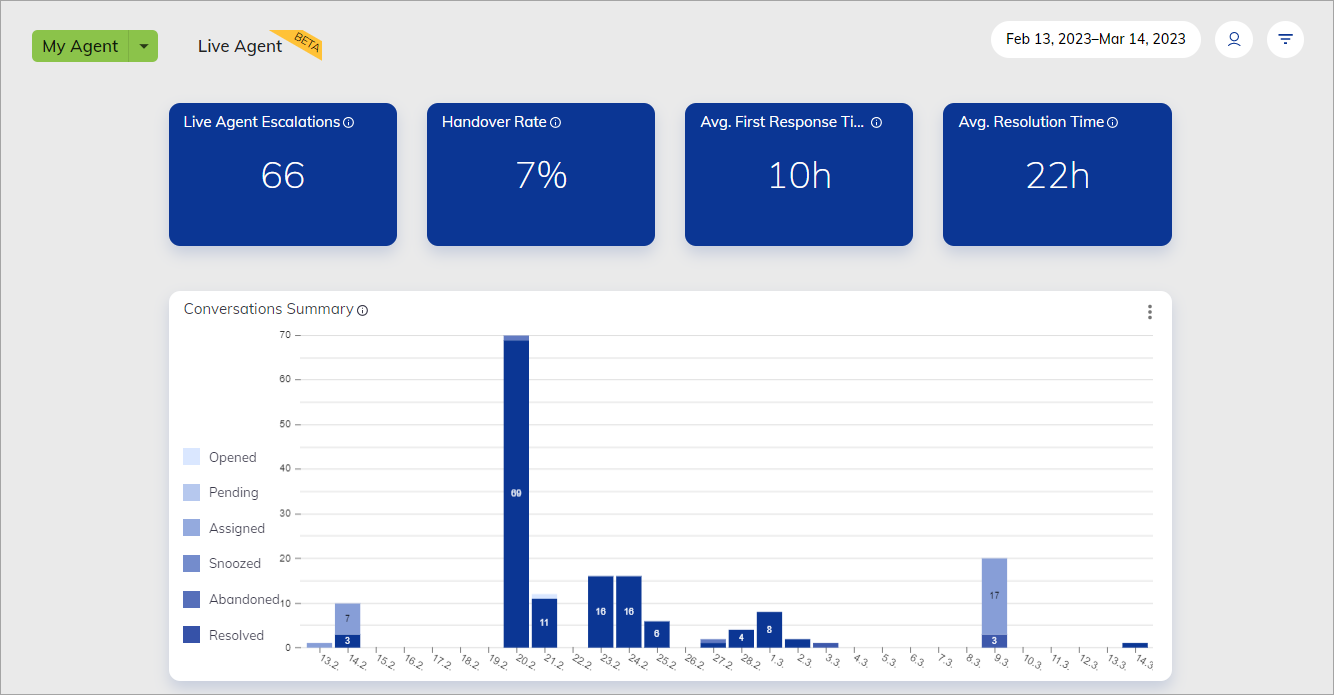
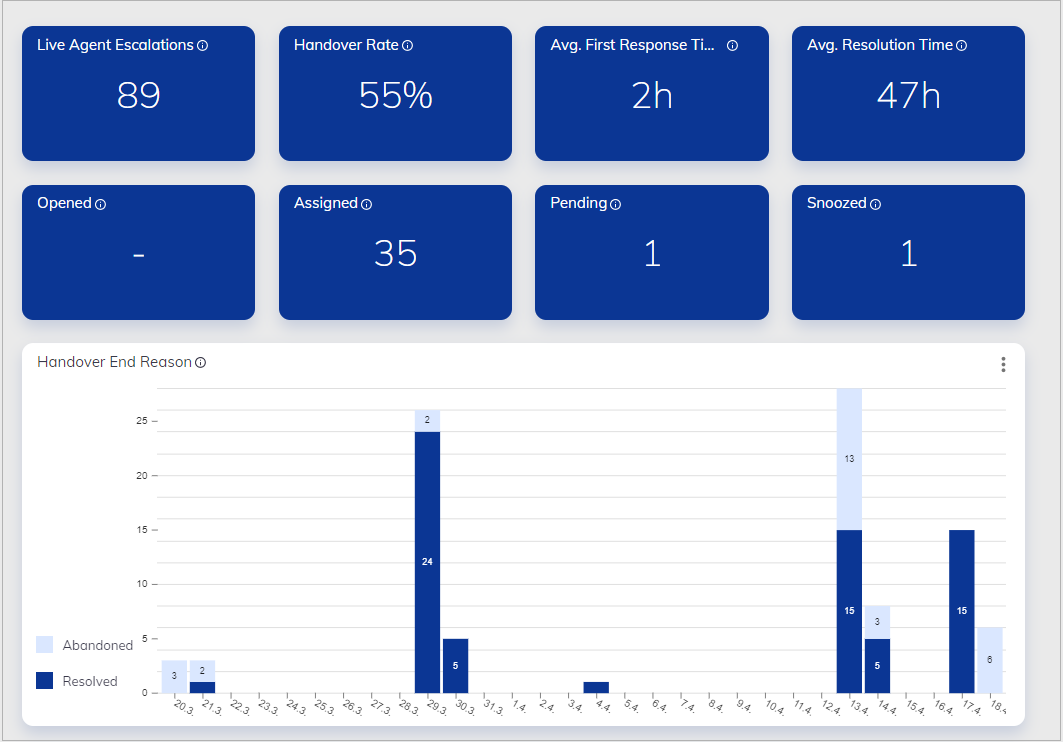
Insights updates

diff --git a/docs/en/docs/insights/dashboard-live-agent.md b/docs/en/docs/insights/dashboard-live-agent.md
@@ -6,7 +6,7 @@
 
 # Live Agent
 
-[![Version badge](https://img.shields.io/badge/Updated in-v4.48-blue.svg)](../release-notes/4.48.md)
+[![Version badge](https://img.shields.io/badge/Updated in-v4.49-blue.svg)](../release-notes/4.49.md)
 
 The Live Agent dashboard displays Live Agent metrics for a specific Virtual Agent.
 
@@ -121,16 +121,28 @@ Calculation:
 
 Result: `9 min`
 
+### Opened
+
+Indicates the number of conversations that were opened by a user or reopened by a human agent.
+
+### Assigned
+
+Indicates the number of conversations that were assigned to a human agent
+
+### Pending
+
+Indicates the number of conversations that were paused until a customer or human agent responded.
+
+### Snoozed
+
+Indicates the number of conversations that were temporarily suspended until a time trigger or customer response trigger was activated.
+
 ## Bar charts 
 
-### Conversations Summary
+### Handover End Reason
 
-Shows the timescale of different conversation statuses:
+Shows the timescale of the following conversation statuses:
 
-- Opened — a conversation is opened by a user or reopened by a human agent.
-- Pending — a conversation is paused until a customer or human agent responds.
-- Assigned — a conversation is assigned to a human agent.
-- Snoozed — a conversation is temporarily suspended until a time trigger or customer response trigger is activated.
 - Abandoned — a conversation is closed because the user left a conversation.
 - Resolved — a conversation is closed because the user's problem was resolved.
 
@@ -139,27 +151,32 @@ The chart indicates how the Live Agents' performance varied over time.
 Source table:
 
 ```txt
-| Date	    |  Status   | Conversations |
-| --------- | --------- | ------------- |
-| 2023/1/21 | resolved  |       3       |
-| 2023/1/21 | opened    |       1       |
-| 2023/2/23	| resolved  |      16       |
-| 2023/2/24	| resolved  |      16       |
-| 2023/2/25	| resolved  |       6       |
-| 2023/2/27	| resolved  |       1       |
-| 2023/2/27	| resolved  |       1       |
-| 2023/2/27	| snoozed   |       1       |
-| 2023/2/28	| resolved  |       1       |
-| 2023/3/1	| resolved  |       8       |
-| 2023/3/2	| resolved  |       2       |
-| 2023/3/3	| abandoned |       1       |
-| 2023/3/7	| assigned  |       9       |
+| Date      | Status    |  Conversations  |
+| --------- | --------- | --------------- |
+| 3/20/2023 | abandoned |        3        |
+| 3/21/2023 | abandoned |        2        |
+| 3/21/2023 | resolved  |        1        |
+| 3/29/2023 | abandoned |        2        |
+| 3/29/2023 | resolved  |       24        |
+| 3/30/2023 | resolved  |        5        |
+| 4/4/2023  | resolved  |        1        |
+| 4/13/2023 | resolved  |       15        |
+| 4/13/2023 | abandoned |       13        |
+| 4/13/2023 | pending   |        1        |
+| 4/13/2023 | snoozed   |        1        |
+| 4/14/2023 | assigned  |       22        |
+| 4/14/2023 | abandoned |        3        |
+| 4/14/2023 | resolved  |        5        |
+| 4/17/2023 | assigned  |        7        |
+| 4/17/2023 | resolved  |       15        |
+| 4/18/2023 | assigned  |        6        |
+| 4/18/2023 | abandoned |        6        |
 ```
 
 Result:
 
 <figure>
-  <img class="image-center" src="{{config.site_url}}insights/images/conversation-summary.png" width="100%" />
+  <img class="image-center" src="{{config.site_url}}insights/images/handover-end-reason.png" width="100%" />
 </figure>
 
 ### Label Summary

diff --git a/docs/en/docs/insights/transcript-explorer.md b/docs/en/docs/insights/transcript-explorer.md
@@ -61,14 +61,14 @@ The customer sessions will be displayed in a list with the following data:
 - Clicking on 'Message count' will sort the listed transcripts alternately by increasing/decreasing order.
 - Clicking on "Last message" sorts the listed transcripts alternately according to the newest/oldest entries.
 
-### "Contains Step" filter
+### Contains Step filter
 
-[![Version badge](https://img.shields.io/badge/Added in-v4.16-blue.svg)]({{config.site_url}})
+[![Version badge](https://img.shields.io/badge/Updated in-v4.49-blue.svg)](../release-notes/4.49.md)
 
-You can additionally narrow the result to conversations which contain a certain Step. Click on the "Filter" icon in Search input and choose a Step. 
+To further refine your search results to include only conversations that contain a specific step, click ![live-follow](../assets/icons/filter.svg) in the search panel and select a step from the list. 
 
 <figure>
-  <img class="image-center" src="{{config.site_url}}insights/images/contains-step-filter-button.png" width="50%" />
+  <img class="image-center" src="{{config.site_url}}insights/images/contains-step-filter-button.png" width="100%" />
   <figcaption>List of Steps opened by the filter button (marked red)</figcaption>
 </figure>
 
